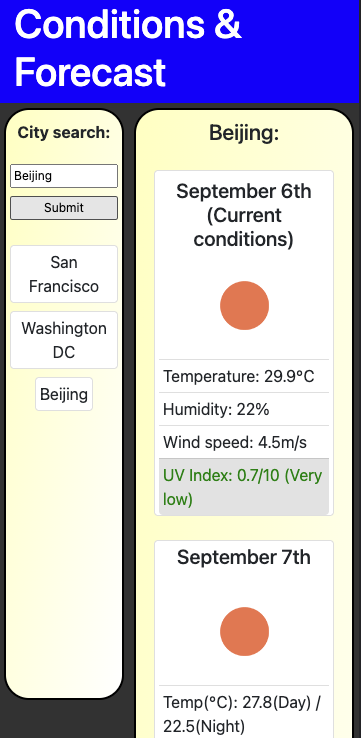
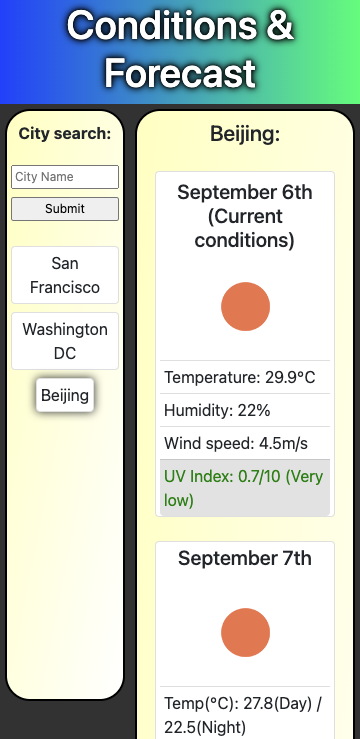
Improved header styling + updated README deployed photo

diff --git a/assets/style/style.css b/assets/style/style.css
@@ -3,8 +3,10 @@
 }
 
 header {
-    background-color: blue;
-    color: white;
+    background-image: linear-gradient(to right, rgb(0, 76, 255) , rgb(0, 255, 115));    color: white;
+    text-align: center;
+    text-shadow: 0px 0px 3px black,0px 0px 6px black,0px 0px 10px black;
+
 }
 
 body {

diff --git a/index.html b/index.html
@@ -154,7 +154,7 @@
 
   </main>
 
-  <footer>2022, &copy Gordon Magill</footer>
+  <footer>&copy Gordon Magill 2022</footer>
 
 
 
